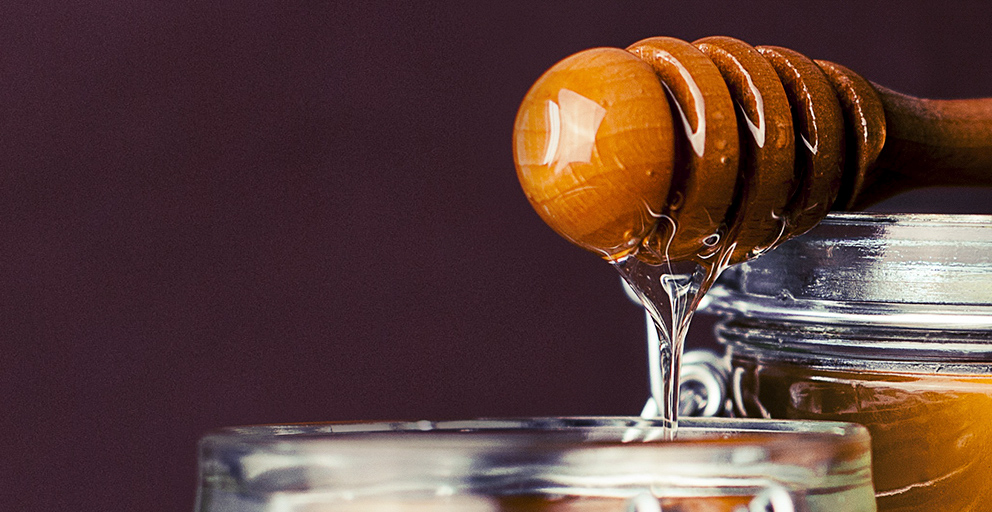
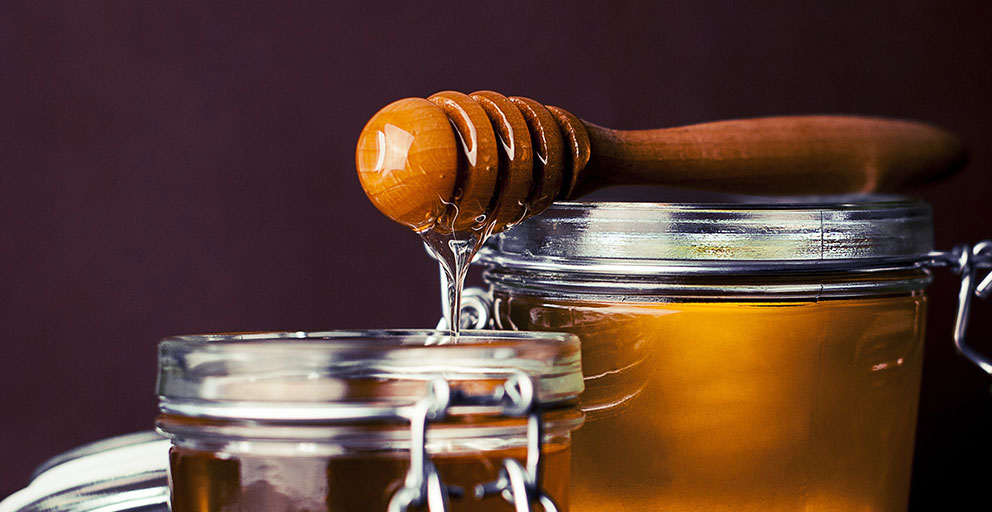
big

diff --git a/public/css/carousel.css b/public/css/carousel.css
@@ -54,13 +54,13 @@ body
 
 #second-slide
   {
-  background: url('../pic/bee992.jpg') top center no-repeat;
+  background: url('../pic/2_992.jpg') top center no-repeat;
   top: 0px;
   }
 
 #third-slide
   {
-  background: url('../pic/spoon1920.jpg') top center no-repeat;
+  background: url('../pic/3_992.jpg') top center no-repeat;
   top: 0px;
   }
 
@@ -106,7 +106,7 @@ body
 /* RESPONSIVE CSS
 -------------------------------------------------- */
 
-@media (max-width: 40em) {
+@media (max-width: 750px) {
   /* Bump up size of carousel content */
   .carousel-caption p {
     margin-bottom: 1.25rem;
@@ -124,124 +124,112 @@ body
 
   #first-slide
   {
-  background: url('../pic/1_992.jpg') top center no-repeat;
+  background: url('../pic/1_750.jpg') top right no-repeat;
   top: 0px;
   }
 
   #second-slide
   {
-  background: url('../pic/bee992.jpg') top center no-repeat;
+  background: url('../pic/2_750.jpg') top center no-repeat;
   top: 0px;
   }
 
   #third-slide
   {
-  background: url('../pic/spoon1920.jpg') top center no-repeat;
+  background: url('../pic/3_750.jpg') top right no-repeat;
   top: 0px;
   }
 }
 
-@media (min-width: 40em) {
-  /* Bump up size of carousel content */
-  .carousel-caption p {
-    margin-bottom: 1.25rem;
-    font-size: 1.25rem;
-    line-height: 1.4;
-  }
 
-  .featurette-heading {
-    font-size: 50px;
-  }
-
-
-
-
-
-  #first-slide
-  {
-  background: url('../pic/1_992.jpg') top center no-repeat;
-  top: 0px;
-  }
-
-  #second-slide
-  {
-  background: url('../pic/bee992.jpg') top center no-repeat;
-  top: 0px;
-  }
-
-  #third-slide
-  {
-  background: url('../pic/spoon1920.jpg') top center no-repeat;
-  top: 0px;
-  }
-}
-
-@media (max-width: 62em) {
+@media (max-width: 1125px) {
 
   .featurette-heading {
     margin-top: 7rem;
   }
   #first-slide
   {
-  background: url('../pic/1_992.jpg') top center no-repeat;
+  background: url('../pic/1_1125.jpg') top right no-repeat;
   top: 0px;
   }
 
   #second-slide
   {
-  background: url('../pic/bee992.jpg') top center no-repeat;
+  background: url('../pic/2_1125.jpg') top center no-repeat;
   top: 0px;
   }
 
   #third-slide
   {
-  background: url('../pic/spoon1920.jpg') top center no-repeat;
+  background: url('../pic/3_1125.jpg') top right no-repeat;
   top: 0px;
   }
 }
 
 
-@media (min-width: 62em) {
+@media (max-width: 1536px) {
   .featurette-heading {
     margin-top: 7rem;
   }
   #first-slide
   {
-  background: url('../pic/1_1920.jpg') top center no-repeat;
+  background: url('../pic/1_1536.jpg') top right no-repeat;
   top: 0px;
   }
 
   #second-slide
   {
-  background: url('../pic/bee1920.jpg') top center no-repeat;
+  background: url('../pic/2_1536.jpg') top center no-repeat;
   top: 0px;
   }
 
   #third-slide
   {
-  background: url('../pic/spoon1920.jpg') top center no-repeat;
+  background: url('../pic/3_1536.jpg') top right no-repeat;
   top: 0px;
   }
 }
-@media (min-width: 120em) {
+@media (max-width: 1920px) {
   .featurette-heading {
     margin-top: 7rem;
   }
   #first-slide
   {
-  background: url('../pic/1.jpg') top center no-repeat;
+  background: url('../pic/1_1920.jpg') top right no-repeat;
   top: 0px;
   }
 
   #second-slide
   {
-  background: url('../pic/bee2048.jpg') top center no-repeat;
+  background: url('../pic/2_1920.jpg') top center no-repeat;
   top: 0px;
   }
 
   #third-slide
   {
-  background: url('../pic/3.jpg') top center no-repeat;
+  background: url('../pic/3_1920.jpg') top right no-repeat;
+  top: 0px;
+  }
+}
+@media (min-width: 1920px) {
+  .featurette-heading {
+    margin-top: 7rem;
+  }
+  #first-slide
+  {
+  background: url('../pic/1_2048.jpg') top right no-repeat;
+  top: 0px;
+  }
+
+  #second-slide
+  {
+  background: url('../pic/2_2048.jpg') top center no-repeat;
+  top: 0px;
+  }
+
+  #third-slide
+  {
+  background: url('../pic/3_2048.jpg') top right no-repeat;
   top: 0px;
   }
 }
